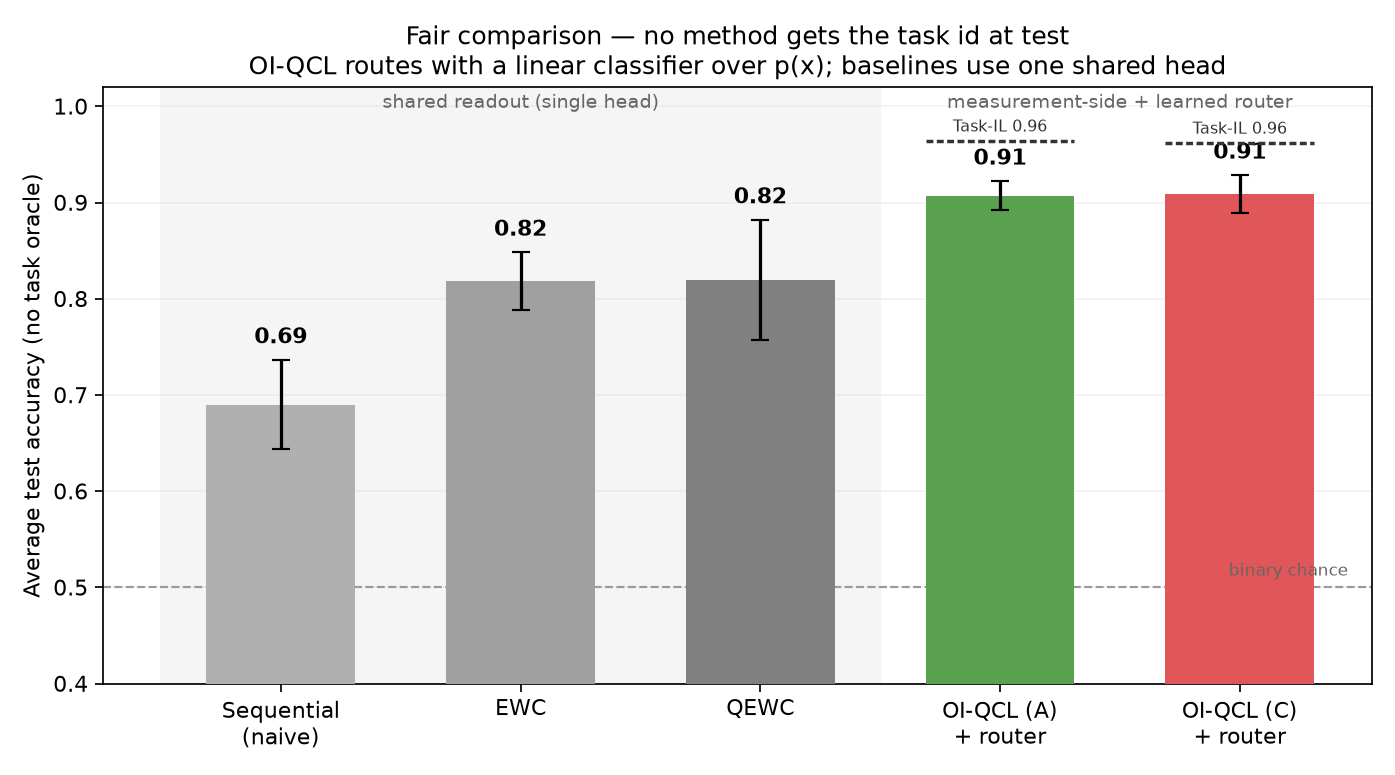
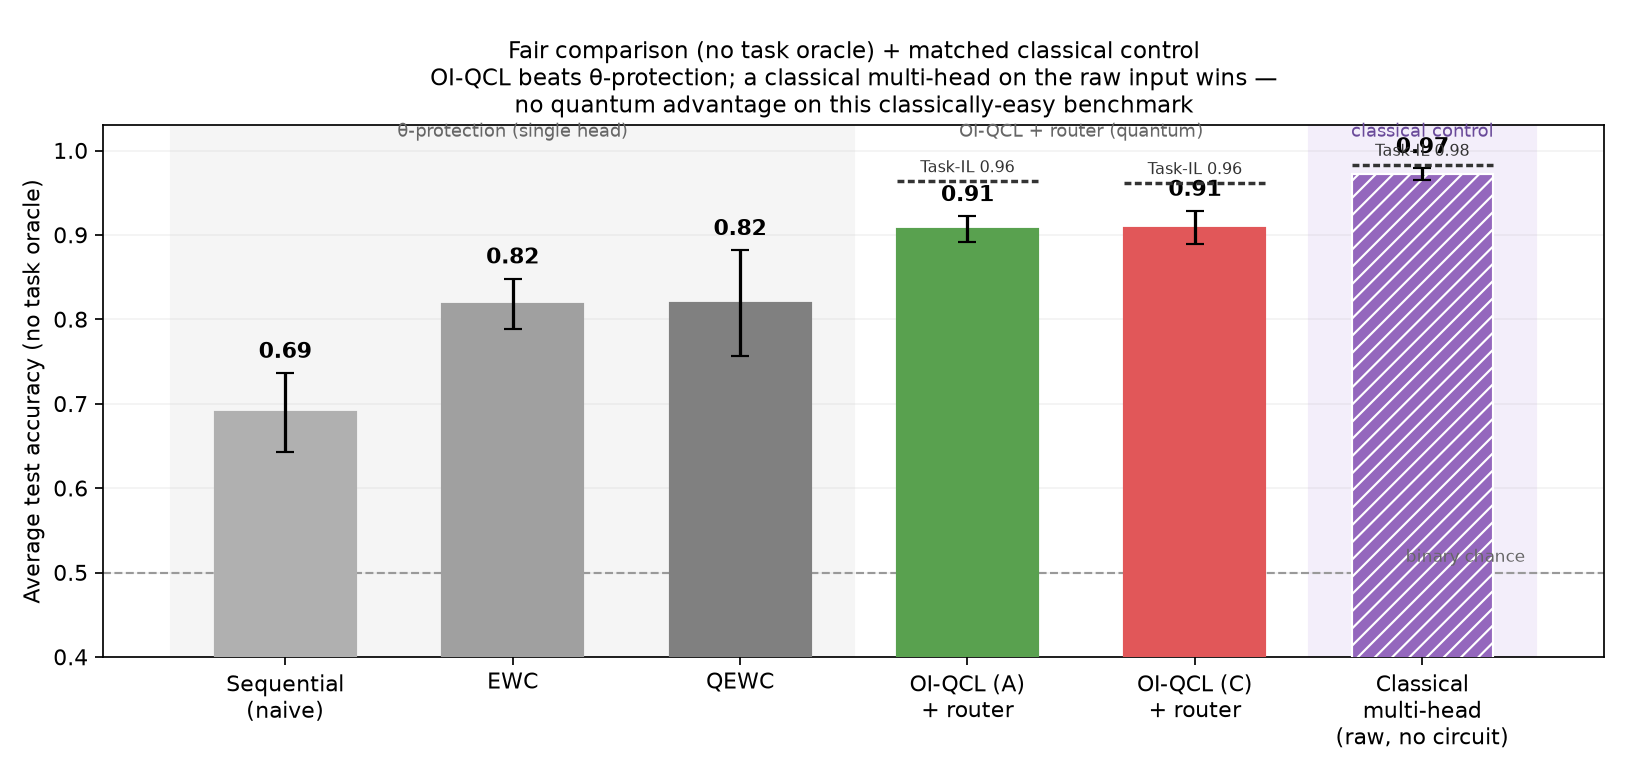
experiment(e014): matched classical control — no quantum advantage here (honest)
Per-task linear head on the RAW 2^n amplitude input (no quantum circuit) beats
OI-QCL: Task-IL ACC 0.983, task-agnostic 0.972 vs OI-QCL 0.964/0.907. These tasks
(incl. SPT phases) are linearly separable from raw amplitudes; probs=|amp|^2 even
discards phase. Reframes OI-QCL as a MECHANISM result (measurement-side isolation
beats theta-protection within the quantum model class), not a classification/quantum
advantage. Added classical control bar to fair_compare figure; updated FINDINGS,
EXPERIMENTS, PR body, claim boundaries.

diff --git a/experiments/e014_classical_baseline.py b/experiments/e014_classical_baseline.py
@@ -1,0 +1,123 @@
+"""E014 matched-capacity classical baseline: is OI-QCL "just a classical multi-head"?
+
+OI-QCL puts a per-task linear head on the QUANTUM probabilities p_theta(x) in R^{2^n}. The
+matched control is the SAME head capacity on the RAW input instead: a per-task logistic head
+on the amplitude-embedding feature vector x_tilde in R^{2^n} (the same 16-dim vector that
+would be fed to AmplitudeEmbedding), with NO quantum circuit at all. Same dimensionality, same
+linear head, same Task-IL / task-agnostic protocols. If OI-QCL >> this, the quantum feature
+map p_theta carries extra separable, forgetting-resistant information; if ~=, the circuit adds
+nothing on this benchmark.
+
+Reports (mean over seeds), for the classical multi-head:
+  * per-task Task-IL accuracy + average (task id given)  -> compare vs OI-QCL frozen/anchor ACC
+  * task-agnostic accuracy via a classical linear router over x_tilde (task id inferred)
+No quantum gradients, no circuit: pure sklearn on the raw features.
+"""
+
+from __future__ import annotations
+
+import argparse
+import hashlib
+import json
+import platform
+import sys
+import time
+from datetime import datetime, timezone
+from importlib.metadata import version
+from pathlib import Path
+from typing import Any
+
+import numpy as np
+from sklearn.linear_model import LogisticRegression
+
+ROOT = Path(__file__).resolve().parents[1]
+sys.path.insert(0, str(ROOT))
+
+from src.continual_data import load_two_tasks  # noqa: E402
+from src.e014_oiqcl import _labels_to_classes  # noqa: E402
+from src.phase_data import N_QUBITS, load_spt_atf  # noqa: E402
+
+RESULTS = ROOT / "results"
+SCHEMA_VERSION = 1
+TASK_KEYS = ("task1", "task2", "task3")
+
+
+def _source_digest() -> str:
+    digest = hashlib.sha256()
+    for path in (Path(__file__), ROOT / "src/continual_data.py", ROOT / "src/phase_data.py"):
+        digest.update(path.read_bytes())
+    return digest.hexdigest()
+
+
+def _fit_head(X, y, seed):
+    clf = LogisticRegression(C=1.0, max_iter=2000, random_state=seed)
+    clf.fit(X, _labels_to_classes(y))
+    return clf
+
+
+def run(*, n_train=800, n_test=200, seed=42, verbose=True) -> dict[str, Any]:
+    t1, t2 = load_two_tasks(n_features=2**N_QUBITS, n_train=n_train, n_test=n_test, seed=seed)
+    t3 = load_spt_atf(n_train=n_train, n_test=n_test, n_qubits=N_QUBITS, seed=seed)
+    tasks = [t1, t2, t3]
+    started = time.perf_counter()
+
+    # Per-task classical heads on the RAW amplitude vectors (no circuit).
+    heads = [_fit_head(t.X_train, t.y_train, seed) for t in tasks]
+    per_task = {}
+    for j, (t, h) in enumerate(zip(tasks, heads)):
+        acc = float(np.mean(h.predict(t.X_test) == _labels_to_classes(t.y_test)))
+        per_task[TASK_KEYS[j]] = {"name": t.name, "taskIL_acc": round(acc, 4)}
+    taskIL_ACC = float(np.mean([per_task[k]["taskIL_acc"] for k in TASK_KEYS]))
+
+    # Task-agnostic: classical linear router over raw x_tilde, then the routed head.
+    X_pool = np.concatenate([t.X_test for t in tasks])
+    true_task = np.concatenate([np.full(len(t.X_test), j) for j, t in enumerate(tasks)])
+    true_cls = _labels_to_classes(np.concatenate([t.y_test for t in tasks]))
+    router = LogisticRegression(max_iter=2000, C=1.0)
+    router.fit(np.concatenate([t.X_train for t in tasks]),
+               np.concatenate([np.full(len(t.X_train), j) for j, t in enumerate(tasks)]))
+    t_hat = router.predict(X_pool)
+    preds = np.stack([h.predict(X_pool) for h in heads])  # (T, N)
+    routed = preds[t_hat, np.arange(len(X_pool))]
+    agnostic = float(np.mean(routed == true_cls))
+    router_tia = float(np.mean(t_hat == true_task))
+
+    if verbose:
+        print(f"  seed {seed}: classical multi-head  Task-IL ACC={taskIL_ACC:.3f}  "
+              f"agnostic={agnostic:.3f}  router-TIA={router_tia:.3f}", flush=True)
+
+    return {
+        "schema_version": SCHEMA_VERSION, "experiment": "e014_classical_baseline",
+        "created_at_utc": datetime.now(timezone.utc).isoformat(),
+        "source_code_sha256": _source_digest(),
+        "environment": {"python": platform.python_version(),
+                        "packages": {p: version(p) for p in ("numpy", "scikit-learn")}},
+        "config": {"model": "per-task logistic head on raw 2^n amplitude input (NO quantum circuit)",
+                   "matched_to": "OI-QCL head over quantum probs p_theta(x) (same dim, same head)",
+                   "tasks": [t.name for t in tasks], "n_qubits": N_QUBITS,
+                   "n_train": n_train, "n_test": n_test, "seed": seed},
+        "per_task": per_task,
+        "taskIL_ACC": round(taskIL_ACC, 4),
+        "task_agnostic_accuracy": round(agnostic, 4),
+        "router_task_inference_accuracy": round(router_tia, 4),
+        "elapsed_sec": round(time.perf_counter() - started, 2),
+    }
+
+
+def main() -> None:
+    ap = argparse.ArgumentParser()
+    ap.add_argument("--n-train", type=int, default=800)
+    ap.add_argument("--n-test", type=int, default=200)
+    ap.add_argument("--seed", type=int, default=42)
+    ap.add_argument("--output", type=Path)
+    args = ap.parse_args()
+    result = run(n_train=args.n_train, n_test=args.n_test, seed=args.seed)
+    RESULTS.mkdir(exist_ok=True)
+    out = args.output or RESULTS / f"e014_classical_baseline_seed{args.seed}.json"
+    out = out if out.is_absolute() else ROOT / out
+    out.write_text(json.dumps(result, indent=2) + "\n", encoding="utf-8")
+    print(f"wrote {out.relative_to(ROOT)}")
+
+
+if __name__ == "__main__":
+    main()

diff --git a/scripts/plot_e014_fair_compare.py b/scripts/plot_e014_fair_compare.py
@@ -34,23 +34,27 @@ def _mean_sd(vals):
 def main() -> None:
     cmp_runs = [json.loads((ROOT / f"results/e014_compare_seed{s}.json").read_text()) for s in SEEDS]
     ti_runs = [json.loads((ROOT / f"results/e014_task_inference_seed{s}.json").read_text()) for s in SEEDS]
+    cb_runs = [json.loads((ROOT / f"results/e014_classical_baseline_seed{s}.json").read_text()) for s in SEEDS]
 
-    # (label, task-agnostic accuracy series, color, optional Task-IL ceiling series)
+    # (label, task-agnostic accuracy series, color, Task-IL ceiling series, hatch)
     bars = [
-        ("Sequential\n(naive)", [r["methods"]["sequential"]["ACC"] for r in cmp_runs], "#b0b0b0", None),
-        ("EWC", [r["methods"]["ewc"]["ACC"] for r in cmp_runs], "#a0a0a0", None),
-        ("QEWC", [r["methods"]["qewc"]["ACC"] for r in cmp_runs], "#808080", None),
+        ("Sequential\n(naive)", [r["methods"]["sequential"]["ACC"] for r in cmp_runs], "#b0b0b0", None, None),
+        ("EWC", [r["methods"]["ewc"]["ACC"] for r in cmp_runs], "#a0a0a0", None, None),
+        ("QEWC", [r["methods"]["qewc"]["ACC"] for r in cmp_runs], "#808080", None, None),
         ("OI-QCL (A)\n+ router", [r["methods"]["frozen_head"]["router_task_agnostic_accuracy"] for r in ti_runs],
-         "#59A14F", [r["methods"]["frozen_head"]["known_task_accuracy"] for r in ti_runs]),
+         "#59A14F", [r["methods"]["frozen_head"]["known_task_accuracy"] for r in ti_runs], None),
         ("OI-QCL (C)\n+ router", [r["methods"]["anchor_head"]["router_task_agnostic_accuracy"] for r in ti_runs],
-         "#E15759", [r["methods"]["anchor_head"]["known_task_accuracy"] for r in ti_runs]),
+         "#E15759", [r["methods"]["anchor_head"]["known_task_accuracy"] for r in ti_runs], None),
+        ("Classical\nmulti-head\n(raw, no circuit)", [r["task_agnostic_accuracy"] for r in cb_runs],
+         "#9467bd", [r["taskIL_ACC"] for r in cb_runs], "///"),
     ]
 
-    fig, ax = plt.subplots(figsize=(9, 5))
+    fig, ax = plt.subplots(figsize=(10.5, 5))
     x = np.arange(len(bars))
-    for xi, (label, series, color, ceil) in enumerate(bars):
+    for xi, (label, series, color, ceil, hatch) in enumerate(bars):
         m, sd = _mean_sd(series)
-        ax.bar(xi, m, 0.62, yerr=sd, capsize=4, color=color, zorder=3)
+        ax.bar(xi, m, 0.62, yerr=sd, capsize=4, color=color, zorder=3, hatch=hatch,
+               edgecolor="white" if hatch else color)
         ax.text(xi, m + sd + 0.012, f"{m:.2f}", ha="center", va="bottom", fontsize=10, weight="bold")
         if ceil is not None:
             cm, _ = _mean_sd(ceil)
@@ -63,17 +67,21 @@ def main() -> None:
     ax.set_xticks(x)
     ax.set_xticklabels([b[0] for b in bars])
     ax.set_ylabel("Average test accuracy (no task oracle)")
-    ax.set_ylim(0.4, 1.02)
+    ax.set_ylim(0.4, 1.03)
     ax.axvspan(-0.5, 2.5, color="0.96", zorder=0)
-    ax.text(1.0, 0.99, "shared readout (single head)", ha="center", va="top",
-            transform=ax.get_xaxis_transform(), fontsize=9, color="0.4")
-    ax.text(3.5, 0.99, "measurement-side + learned router", ha="center", va="top",
-            transform=ax.get_xaxis_transform(), fontsize=9, color="0.4")
-    ax.set_title("Fair comparison — no method gets the task id at test\n"
-                 "OI-QCL routes with a linear classifier over p(x); baselines use one shared head",
-                 fontsize=11.5)
+    ax.axvspan(4.5, 5.5, color="#f3eefa", zorder=0)
+    ax.text(1.0, 1.005, "θ-protection (single head)", ha="center", va="top",
+            transform=ax.get_xaxis_transform(), fontsize=8.5, color="0.4")
+    ax.text(3.5, 1.005, "OI-QCL + router (quantum)", ha="center", va="top",
+            transform=ax.get_xaxis_transform(), fontsize=8.5, color="0.4")
+    ax.text(5.0, 1.005, "classical control", ha="center", va="top",
+            transform=ax.get_xaxis_transform(), fontsize=8.5, color="#6a4a9a")
+    ax.set_title("Fair comparison (no task oracle) + matched classical control\n"
+                 "OI-QCL beats θ-protection; a classical multi-head on the raw input wins —\n"
+                 "no quantum advantage on this classically-easy benchmark",
+                 fontsize=10.5)
     ax.grid(axis="y", alpha=0.15)
-    fig.tight_layout()
+    fig.tight_layout(rect=(0, 0, 1, 0.98))
 
     FIG.mkdir(exist_ok=True)
     out = FIG / "e014_fair_compare.png"

diff --git a/E014_FINDINGS.md b/E014_FINDINGS.md
@@ -155,11 +155,35 @@ Average test accuracy: Sequential 0.69, EWC 0.82, QEWC 0.82, **OI-QCL+router (A/
 ceiling 0.96). OI-QCL still wins by ~0.09 under the harder, oracle-free setting — the ~0.14 ACC
 advantage over θ-protection is not an artifact of the task oracle.
 
+## Matched classical control — no quantum advantage on this benchmark (important, honest)
+
+`experiments/e014_classical_baseline.py`: the same per-task linear head capacity, but on the **raw
+2ⁿ amplitude input `x̃`** (the vector fed to AmplitudeEmbedding) with **no quantum circuit at all**.
+Mean over seeds:
+
+| model | Task-IL ACC | task-agnostic (router) |
+|---|---:|---:|
+| **Classical multi-head (raw input, no circuit)** | **0.983** | **0.972** |
+| OI-QCL frozen (A) / anchor (C) | 0.964 / 0.962 | 0.907 / 0.909 |
+| QEWC | 0.819 | — |
+
+**The classical multi-head beats OI-QCL** (per-task: T1 0.998 / T2 0.952 / T3 SPT 1.00). On this
+benchmark the quantum circuit + measurement adds nothing — `probs = |amplitude|²` even discards
+sign/phase, and these tasks (incl. the "quantum-native" SPT phases) are already linearly separable
+from the raw amplitudes. **So OI-QCL's contribution is NOT a classification/quantum advantage.** It
+is a *mechanism* result: **within the quantum model class**, moving continual memory to the
+measurement (A/C ≈ 0.96) beats θ-protection (QEWC/EWC ≈ 0.82) and eliminates forgetting. Showing the
+quantum representation is *necessary* would require a task where a matched classical head fails —
+not the case here; that is the honest limit and a clear direction for a harder (quantum-data) benchmark.
+
 ## Claim boundaries
 
 Simulator only (`default.qubit`), 4 qubits, exact probabilities (no finite-shot/hardware
 readout). Task-IL only (task id known at test) — not class-incremental or task-agnostic.
 The isolated head is a linear map over 2ⁿ probabilities: memory scales O(T·C·2ⁿ), which is
 exponential in qubits (DANO reduces generic 4ⁿ Hermitians to 2ⁿ diagonal but stays
-exponential) — fine at n=4, needs structured/local observables at scale. No quantum-advantage
-claim; the contribution is *where* continual memory should live in a quantum model.
+exponential) — fine at n=4, needs structured/local observables at scale. **No quantum-advantage
+claim — a matched classical multi-head on the raw input actually wins here** (see above); the
+contribution is *where* continual memory should live in a quantum model (measurement-side
+isolation beats θ-protection within the quantum model class), not that the quantum model beats
+classical ML on these tasks.

diff --git a/EXPERIMENTS.md b/EXPERIMENTS.md
@@ -706,12 +706,19 @@ id (baselines use one shared head, OI-QCL uses the learned router): Sequential 0
 QEWC 0.82, **OI-QCL+router (A/C) 0.91** (Task-IL ceiling 0.96). The ~0.14 ACC advantage over
 θ-protection is not an artifact of the task oracle — OI-QCL still wins by ~0.09 oracle-free.
 
+**Matched classical control (`experiments/e014_classical_baseline.py`) — honest, important.**
+Same per-task linear head on the RAW 2ⁿ amplitude input (no quantum circuit): Task-IL ACC 0.983,
+task-agnostic 0.972 — it **beats** OI-QCL (0.964/0.907). So there is **no quantum advantage** on
+this benchmark; the tasks (incl. SPT phases) are linearly separable from the raw amplitudes and the
+measurement `|amplitude|²` even discards phase. OI-QCL's result is a *mechanism* claim (measurement-
+side isolation beats θ-protection **within the quantum model class**), not classification advantage.
+
 **Cost (unchanged vs baselines on the quantum side).** n=4, L=12: backbone θ = 96 params,
 36 CNOTs, depth ≈ 60 — identical for all methods (OI-QCL only swaps the classical readout). Each
 task adds one linear head (C·2ⁿ + C = 34 params); total head memory O(T·C·2ⁿ) = 102 at T=3.
 
 **Artifacts.** `src/e014_oiqcl.py`; experiments `e014_probe.py`, `e014_compare.py`,
-`e014_trajectory.py`, `e014_task_inference.py`; scripts `e014_aggregate_plot.py`,
+`e014_trajectory.py`, `e014_task_inference.py`, `e014_classical_baseline.py`; scripts `e014_aggregate_plot.py`,
 `plot_e014_trajectory.py`, `plot_e014_task_inference.py`, `plot_e014_fair_compare.py`,
 `plot_e014_circuit.py`;
 `tests/test_e014_oiqcl.py` (incl. the ⟨H_diag⟩ = λ·p identity); results
